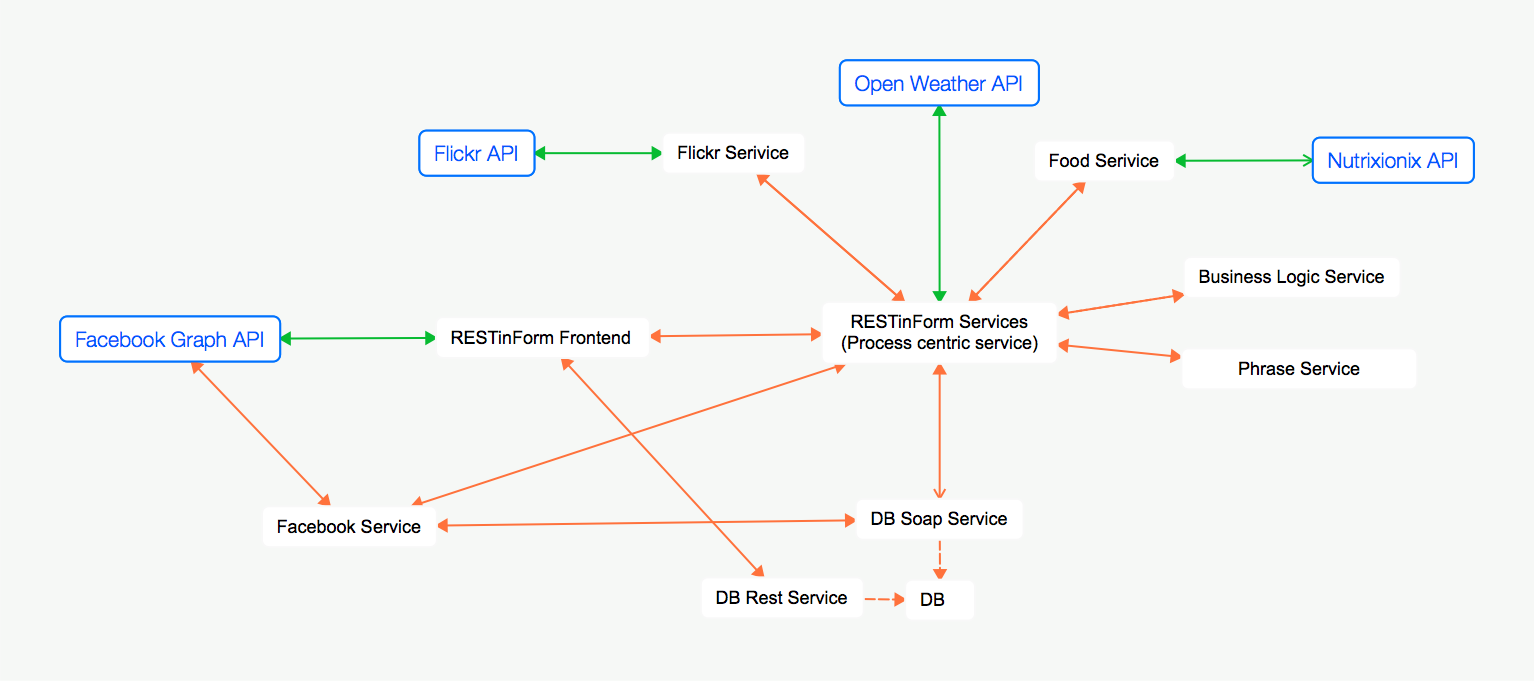
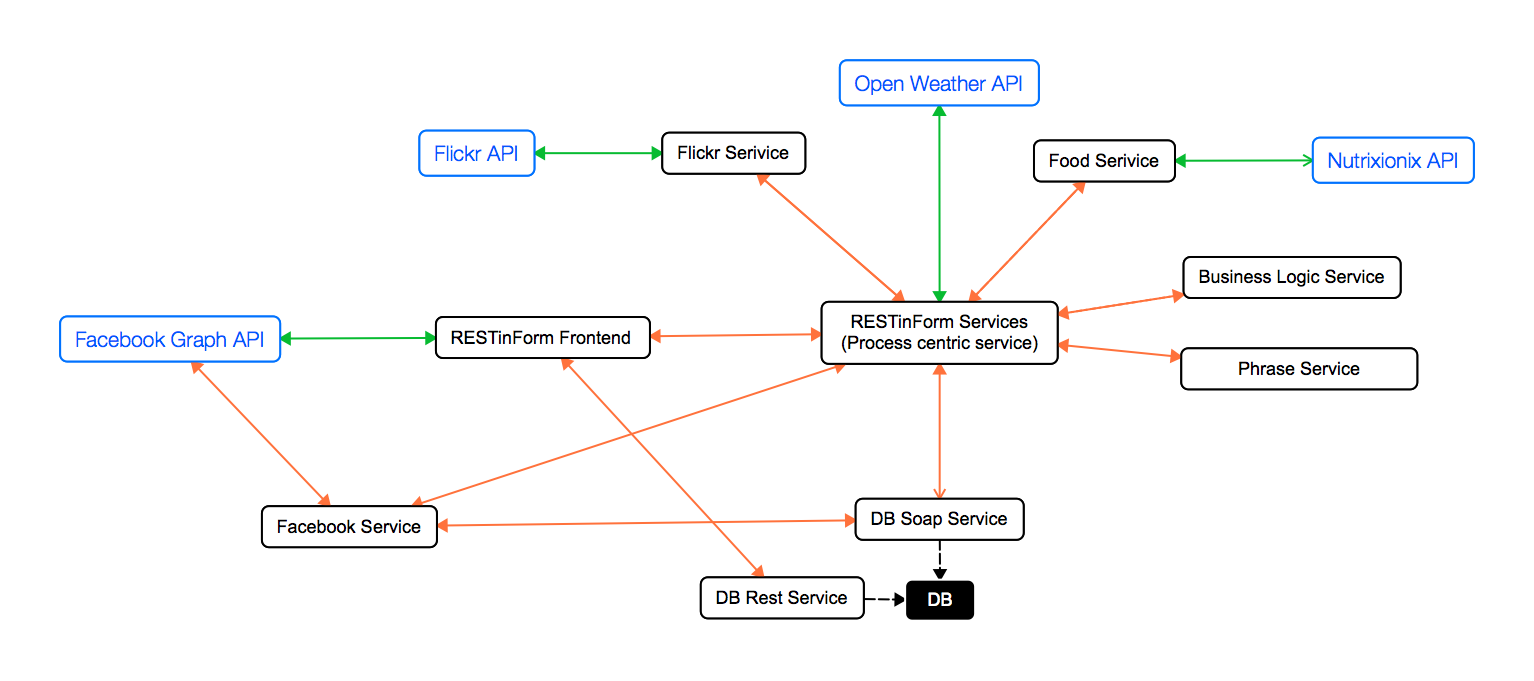
frontend updated, documention updated

diff --git a/documentation.html b/documentation.html
@@ -12,7 +12,7 @@
     <!--[if lt IE 9]>
     <script src="//html5shiv.googlecode.com/svn/trunk/html5.js"></script>
     <![endif]-->
-    <title>Easy Responsive Tabs to Accordion</title>
+    <title>Documentation</title>
     <script type="text/javascript">
 
     $(document).ready(function(){
@@ -43,6 +43,13 @@
 
        $('#dir_res').html(library.json.prettyPrint(dir_res));
        $('#dir_res_err').html(library.json.prettyPrint(dir_res_err));
+
+       // Facebook service
+       $('#fb_service_invalid_token').html(library.json.prettyPrint(fb_service_invalid_token));
+       $('#fb_service_valid_token').html(library.json.prettyPrint(fb_service_valid_token));
+
+       $('#fb_invalid_token').html(library.json.prettyPrint(fb_invalid_token));
+       $('#fb_valid_token').html(library.json.prettyPrint(fb_valid_token));
     });
 
     </script>
@@ -67,7 +74,7 @@
                 <div>
                     <h1>Summary</h1>
 
-                    <p>Here can be seen the map of our project. While services we developed have a black border, the external services have a blue one. The most important service is the <i>RESTinForm Services</i> which is actualy our Process centric service. Green arrow are requests that use API provided by external services. The red arrows represent the first process while the blue ones are part of the second process. As required each process send request to at least 3 different services.</p>
+                    <p>Here can be seen the map of our project. While services we developed have a black border, the external services have a blue one. The most important service is the <i>RESTinForm Services</i> which is actualy our Process centric service. Green arrow are requests that use API provided by external services. The red arrows represent the first process while the blue ones are part of the second process. As required each process send request to at least 3 different services. All the requests sent from/to a service are formatted in JSON. We chose this format because it is very lightweight.</p>
 
                     <img src="img/Map.png">
 
@@ -82,9 +89,12 @@
                     In order to send requests to the external services we developed 6 Java Services.
                     <ul>
                       <li><b>Facebook Service</b>: </li>
-                      <li><b>Facebook Service</b>: </li>
+                      <li><b>DB REST Service</b>: </li>
+                      <li><b>DB SOAP Service</b>: </li>
+                      <li><b>BmiCalculatorService</b>: </li>
+                      <li><b>RestINNutritionix</b>: </li>
+                      <li><b>FlickrService</b>: </li>
                     </ul>
-
 
                     In addition there is a Web Application published on <a href="https://restinform.herokuapp.com" target="_blank">https://restiinform.herokuapp.com</a>(RESTinForm Service, the frontend) which sends four requests and works as follows.
                     <ul>
@@ -95,7 +105,7 @@
                 </div>
                 <div>
                     <h1>RESTinForm Frontend</h1>
-                    The frontend send an HTTP Request to the process centric service (see Tab RESTinFormService). As all the services we developed, the RESTinFormService calls the FacebookService in order to authenticate the user request's.
+                    The frontend sends an HTTP Request to the process centric service (see Tab RESTinFormService). As all the services we developed, the RESTinFormService calls the FacebookService in order to authenticate the user request's.
                     While the <code>callback=?</code> parameter means that we are using a jsonp with a random callback generated by jQuery, the <code>token</code> parameter is used to authenticate a user with Facebook.
 
                     <h2>First Process</h2>
@@ -115,11 +125,42 @@
                 </div>
                 <div>
                     <h1>RESTinFormService - Process centric service</h1>
-                    Lorem consectetur adipiscing elit. Vestibulum nibh urna, euismod ut ornare non, volutpat vel tortor. Integer laoreet placerat suscipit. Sed sodales scelerisque commodo. Nam porta cursus lectus. Proin nunc erat, gravida a facilisis quis, ornare id lectus. Proin consectetur nibh quis.
+
+                    The RESTinFormService it the process centric service which sends requests to all our developed services. It is hosted in <a href="https://restindirectorservice.herokuapp.com">https://restindirectorservice.herokuapp.com</a> made by two processes. The first process aims to gather information about the weather condition, the bmi of the authenticated user and motivational quotes related both to the weather and to the bmi.
+
+                    <pre><code>GET https://restindirectorservice.herokuapp.com/project-director/food?callback=&#60;CALLBACK&#62;&amp;token=&#60;TOKEN&#62;</code></pre>
+
+                    <pre><code>jQuery30090583399275290333725555919781042774309986270964_1421931432535(&#60;JSON RESPONSE&#62;)</code></pre>
                 </div>
                 <div>
                     <h1>FacebookService</h1>
-                    Lorem ipsum dolor sit amet, consectetur adipiscing elit. Vestibulum nibh urna, euismod ut ornare non, volutpat vel tortor. Integer laoreet placerat suscipit. Sed sodales scelerisque commodo. Nam porta cursus lectus. Proin nunc erat, gravida a facilisis quis, ornare id lectus. Proin consectetur nibh quis urna gravida mollis.
+                    
+                    The FacebookService is the web service which sends requests to the Facebook Graph API in order to know if all the requests that arrive to other services contain a valid <code>token</code>. This allows us to limit the use of all our developed services to only authenticated users. Our service is hosted in <a href="https://restinfacebookservice.herokuapp.com">https://restinfacebookservice.herokuapp.com</a>. The request must contain a <code>token</code> parameter as follows:
+
+                    <pre><code>GET https://restinfacebookservice.herokuapp.com/project-facebook/auth?token=&#60;TOKEN&#62;</code></pre>
+
+                    The Facebook Service asks to the Facebook Graph API (see How it works) if the given token is valid or not. In both cases the output json contain a <code>status</code> with a <code>message</code> and a <code>code</code>. <br/>In case the token is <b>not valid</b>, our service responds with the following json.
+
+                    <pre><code id="fb_service_invalid_token"></code></pre>
+
+                    On the other hand, in case the token is <b>valid</b>, the following json is returned.
+
+                    <pre><code id="fb_service_valid_token"></code></pre>
+
+                    <h2>How it works</h2>
+
+                    First, the Facebook Service sends a request to Facebook Graph API. The request is a REST request to the following url.
+
+                    <pre><code>GET https://graph.facebook.com/v2.2/me?fields=id,first_name,location&amp;access_token=&#60;TOKEN&#62;</code></pre>
+
+                    If the user is <b>not authenticated</b> via Facebook, the Facebook Graph API responds to our Facebook Service the following json.
+
+                    <pre><code id="fb_invalid_token"></code></pre>
+
+                    On the other hand, in case the user is <b>authenticated</b>, the Facebok Graph API responds with the following json.
+
+                    <pre><code id="fb_valid_token"></code></pre>
+
                 </div>
             </div>
         </div>

diff --git a/js/json.js b/js/json.js
@@ -1,55 +1,94 @@
 
-var dir_res_err = {"result": "User Not Authenticated"};
 
-var dir_res = {
-    "result":[  
-          {  
-             "activityplan":{  
-                "bmirange":2,
-                "idphrase":4,
-                "change":2,
-                "phrase":"poppa333",
-                "weathertype":1,
-                "activity":"ciao"
-             },
-             "weather":{  
-                "location":"Trento, Italy",
-                "temp":-4.8,
-                "weather":"Clear",
-                "type":1
-             }
-          },
-          {  
-             "activityplan":{  
-                "bmirange":2,
-                "idphrase":4,
-                "change":2,
-                "phrase":"poppa333",
-                "weathertype":1,
-                "activity":"ciao"
-             },
-             "weather":{  
-                "location":"Trento, Italy",
-                "temp":-6.28,
-                "weather":"Clear",
-                "type":1
-             }
-          },
-          {  
-             "activityplan":{  
-                "bmirange":2,
-                "idphrase":4,
-                "change":2,
-                "phrase":"poppa333",
-                "weathertype":1,
-                "activity":"ciao"
-             },
-             "weather":{  
-                "location":"Trento, Italy",
-                "temp":-4.37,
-                "weather":"Clouds",
-                "type":1
-             }
-          }
-       ]
-    }
+    // Process centric service
+
+    var dir_res_err = {"status":{"message":"Invalid OAuth access token","code":1}}
+
+    var dir_res = {
+        "result":[  
+              {  
+                 "activityplan":{  
+                    "bmirange":2,
+                    "idphrase":4,
+                    "change":2,
+                    "phrase":"poppa333",
+                    "weathertype":1,
+                    "activity":"ciao"
+                 },
+                 "weather":{  
+                    "location":"Trento, Italy",
+                    "temp":-4.8,
+                    "weather":"Clear",
+                    "type":1
+                 }
+              },
+              {  
+                 "activityplan":{  
+                    "bmirange":2,
+                    "idphrase":4,
+                    "change":2,
+                    "phrase":"poppa333",
+                    "weathertype":1,
+                    "activity":"ciao"
+                 },
+                 "weather":{  
+                    "location":"Trento, Italy",
+                    "temp":-6.28,
+                    "weather":"Clear",
+                    "type":1
+                 }
+              },
+              {  
+                 "activityplan":{  
+                    "bmirange":2,
+                    "idphrase":4,
+                    "change":2,
+                    "phrase":"poppa333",
+                    "weathertype":1,
+                    "activity":"ciao"
+                 },
+                 "weather":{  
+                    "location":"Trento, Italy",
+                    "temp":-4.37,
+                    "weather":"Clouds",
+                    "type":1
+                 }
+              }
+           ]
+        }
+
+    // FACEBOOK JSON
+    var fb_service_invalid_token = {
+        "status":{
+            "message":"Invalid OAuth access token",
+            "code":1
+        }
+    };
+
+    var fb_service_valid_token = {
+        "id":"10203701191346680",
+        "first_name":"Roberto",
+        "status":{
+            "message":"Valid Request",
+            "code":200
+        },
+        "location":"Trento, Italy"
+    };
+
+    var fb_invalid_token = {
+       "error": {
+          "message": "Invalid OAuth access token.",
+          "type": "OAuthException",
+          "code": 190
+       }
+    };
+
+    var fb_valid_token = {
+       "id": "10203701191346680",
+       "first_name": "Roberto",
+       "location": {
+          "id": "110085715688081",
+          "name": "Trento, Italy"
+       }
+    };
+

diff --git a/js/social.js b/js/social.js
@@ -50,35 +50,6 @@ function getProfileInfo() {
 
 function send_request() {
 
-  // alert(access_token);
-
-  // $.ajax({
-  //   crossDomain: true,
-  //   type:'POST',
-  //   dataType: 'jsonp',
-  //   url: "http://restindirectorservice.herokuapp.com/project-director/facebook",
-  //   data: JSON.stringify(myObject),
-  //   success: function(data)
-  //   {
-  //     var obj = jQuery.parseJSON(data);
-  //     alert(obj.id);
-  //     alert(obj.fist_name);
-  //     alert(obj.image_url);
-  //     // $('body').append(data);
-  //     // if(err == "Errore nell'invio dell'e-mail." || err == "E-mail non valida.") {
-  //     //   $('#form-send-message').addClass('form-send-errors')
-  //     // }
-  //     // else {
-  //     //   $('#form-send-message').addClass('form-send-success');
-  //     // }
-  //   }//,
-  //   // error: function(error) {
-  //   //   alert(error);
-  //   // }
-  // });
-
-  // restindirectorservice.herokuapp.com
-
   $.getJSON("https://restindirectorservice.herokuapp.com/project-director/weather?callback=?&token=" + access_token, function(response_p1){
 
     console.log(response_p1);
@@ -99,6 +70,7 @@ function send_request() {
       suggested_food = response_p2.result.suggestedFood.name;
 
       $('#form').hide();
+      $('.shadow_overlay').show();
       $('#flickr_bg').css('background-image', 'url("'+ bg +'")');
       $('#quote').text(act1.phrase);
       $('.motivational_quote').show();

diff --git a/css/style.css b/css/style.css
@@ -36,7 +36,7 @@ button {
 #flickr_bg {
 	width: 100%;
 	min-height: 100%;
-	background-image: url("http://asiastreetfood.com/wp-content/uploads/2014/06/BanhMi.jpg");
+	/*background-image: url("http://asiastreetfood.com/wp-content/uploads/2014/06/BanhMi.jpg");*/
 	background-size: cover;
 	margin: 0px;
 	padding: 0px;
@@ -46,15 +46,15 @@ button {
 }
 
 .shadow_overlay {
-	background: #061524;
-	/*background: none repeat scroll 0 0 rgb(0,0,0);*/
+	background: none repeat scroll 0 0 rgba(0,0,0, 0.26);
 	width: 100%;
-	min-height: 100%;
-	position: relative;
+	height: 100%;
+	position: fixed;
+	display: none;
 }
 
 #first {
-	height: 100%;
+	height: 92%;
 }
 
 #second {
@@ -274,17 +274,13 @@ form ul li {
 .block{
     width: 30%;    
     margin: 0 15px;
-    /*overflow: hidden;*/
+    position: relative;
     -webkit-border-radius: 2px;
     -moz-border-radius: 2px;
     border-radius: 2px;
     background: rgb(255, 255, 255);
     border: 1px solid #fff;
     color: #2c3e50;
-    /*
-    border: 1px solid #3498db;
-    background: #3498db;
-    */
 }
 
 .block .title {
@@ -317,7 +313,7 @@ form ul li {
 
 .copyright {
 	width: 100%;
-	position: absolute;
+	position: relative;
 	font-size: 12px;
 	text-align: center;
 	bottom: 15px;

diff --git a/home.html b/home.html
@@ -47,7 +47,7 @@
        }(document, 'script', 'facebook-jssdk'));
     </script>
     <div id='fb-root' data-appid='876509135716754' data-namespace='restinform'></div>
-    <!-- <div class="shadow_overlay"></div> -->
+    <div class="shadow_overlay"></div>
     <div id="flickr_bg" data-stellar-background-ratio="0.5">
         <div id="first">
           <span class="logo"><span class="oswaldbold">REST</span>inForm</span>

diff --git a/css/docs.css b/css/docs.css
@@ -14,6 +14,7 @@ img {
     margin-top: 20px;
     margin-bottom: 20px;
     display: block;
+    border: 1px solid #2c3e50;
 }
 
 ul.resp-tabs-list {
